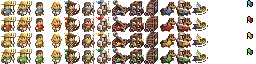
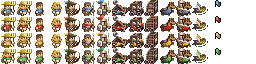
add flags

diff --git a/mk_defs.py b/mk_defs.py
@@ -15,7 +15,7 @@ tile2terrain = {
 }
 
 colors   = 'blue red yellow green'.split()
-units    = 'farmer farmer_f soldier soldier_f archer guard guard2 catapult belier tower horse knight boat'.split() # in order horizontally
+units    = 'farmer farmer_f soldier soldier_f archer guard guard2 catapult belier tower horse knight boat flag'.split() # in order horizontally
 cursors  = 'cursor cursor2 left right down up'.split()
 flags    = 'flag1 flag2 flag3 flag4 flag5'.split()
 
@@ -33,6 +33,7 @@ def unit_type(unit) :
 		('belier','catapult','tower') : 'wheels',
 		('horse','knight') : 'horse',
 		('boat',) : 'boat',
+		('flag',) : 'flag',
 	}
 	for k,v in list(MTYPES.items()) :
 		if unit in k :
@@ -66,11 +67,11 @@ def damage(of,to) :
 def unit_attack_range(u) :
 	u2 = u.split('_')[0]
 	if u2=='farmer' : return (0,0)
-	if u2=='catapult' : return (2,8)
+	if u2=='catapult' : return (2,5)
 	return (0,1)
 
 def unit_distance_range(u) :
-	return {'foot':5,'wheels':4,'horse':10,'boat':10}[unit_type(u)]
+	return {'foot':5,'wheels':4,'horse':10,'boat':10,'flag':0}[unit_type(u)]
 
 resources_terrains = [
     ('food', 'fields'),
@@ -111,7 +112,6 @@ for l in tmx.findall('layer') :
 				it = t-firstgid_units
 				color = it//16
 				unit  = it%16
-				if unit==15 : continue # flag : fixme special
 
 				x = n%tmap_w
 				y = n//tmap_w
@@ -168,10 +168,7 @@ for ui,u in enumerate(units) :
 	print("    fr_unit_%s = %d,"%(u,ui*8))
 print('    // cursors')
 for ui,u in enumerate(cursors) :
-	print("    fr_unit_%s = %d,"%(u,len(units)*8+ui))
-print('    // flags')
-for ui,u in enumerate(flags) :
-	print("    fr_unit_%s = %d,"%(u,len(units)*8+8+ui))
+	print("    fr_unit_%s = %d,"%(u,15*8+ui))
 print("};")
 
 print('// - sprite misc.')
@@ -205,6 +202,7 @@ print('''struct LevelDef {
 	char *intro;
 	uint8_t nb_players;
 	uint8_t units[32][4]; // initial position of units
+	uint16_t base[4]; // position of each main base
 };''')
 
 print('extern const uint8_t tile_terrain[];')

diff --git a/game.cpp b/game.cpp
@@ -158,9 +158,10 @@ void Game::load_units()
 
         if (!unit[2]) {// no type defined : set as not used
             units[i].line = nullptr;
-        } else if (unit[2]==16) {
+//        } else if (unit[2]==16) {
             // special : flag
         } else {
+            message("unit %d\n",unit[2]);
             unit_new(unit[0],unit[1],unit[2]-1,unit[3]);
             player_type[unit[3]] = unit[3]==0 ? player_human : player_cpu0;
             //player_type[unit[3]] = player_cpu0;
@@ -328,6 +329,12 @@ static uint8_t find_next_anim_tile(uint8_t tile_id)
 // update background animations & wait next frame
 void Game::bg_frame()
 {
+    // update one unit per frame (fixme not constant..)
+    Unit &u = units[vga_frame%MAX_UNITS];
+    if (u.type() == unit_flag) {
+        u.fr = u.fr/8*8 + (u.fr+1)%6;
+    }
+
     // update one line per frame
     const int line = vga_frame%32;
     if (line==0 || line>=SCREEN_H) return;

diff --git a/game.h b/game.h
@@ -21,6 +21,7 @@ struct Game {
     uint8_t player_avatar[4];
 
     uint8_t resources[4][4]; // per color / resource id
+    object  flag[4]; // main base
 
     // global info
     Unit units[MAX_UNITS];      // frame as unit type, set line=0 if not used. palette as player+aleady moved (faded)

diff --git a/player.cpp b/player.cpp
@@ -8,9 +8,6 @@ extern "C" {
 }
 #include "surface.h"
 
-// fixme put in game
-
-
 void move_cursor(uint16_t gamepad_pressed)
 {
     object * const cursor = &game_info.cursor;
